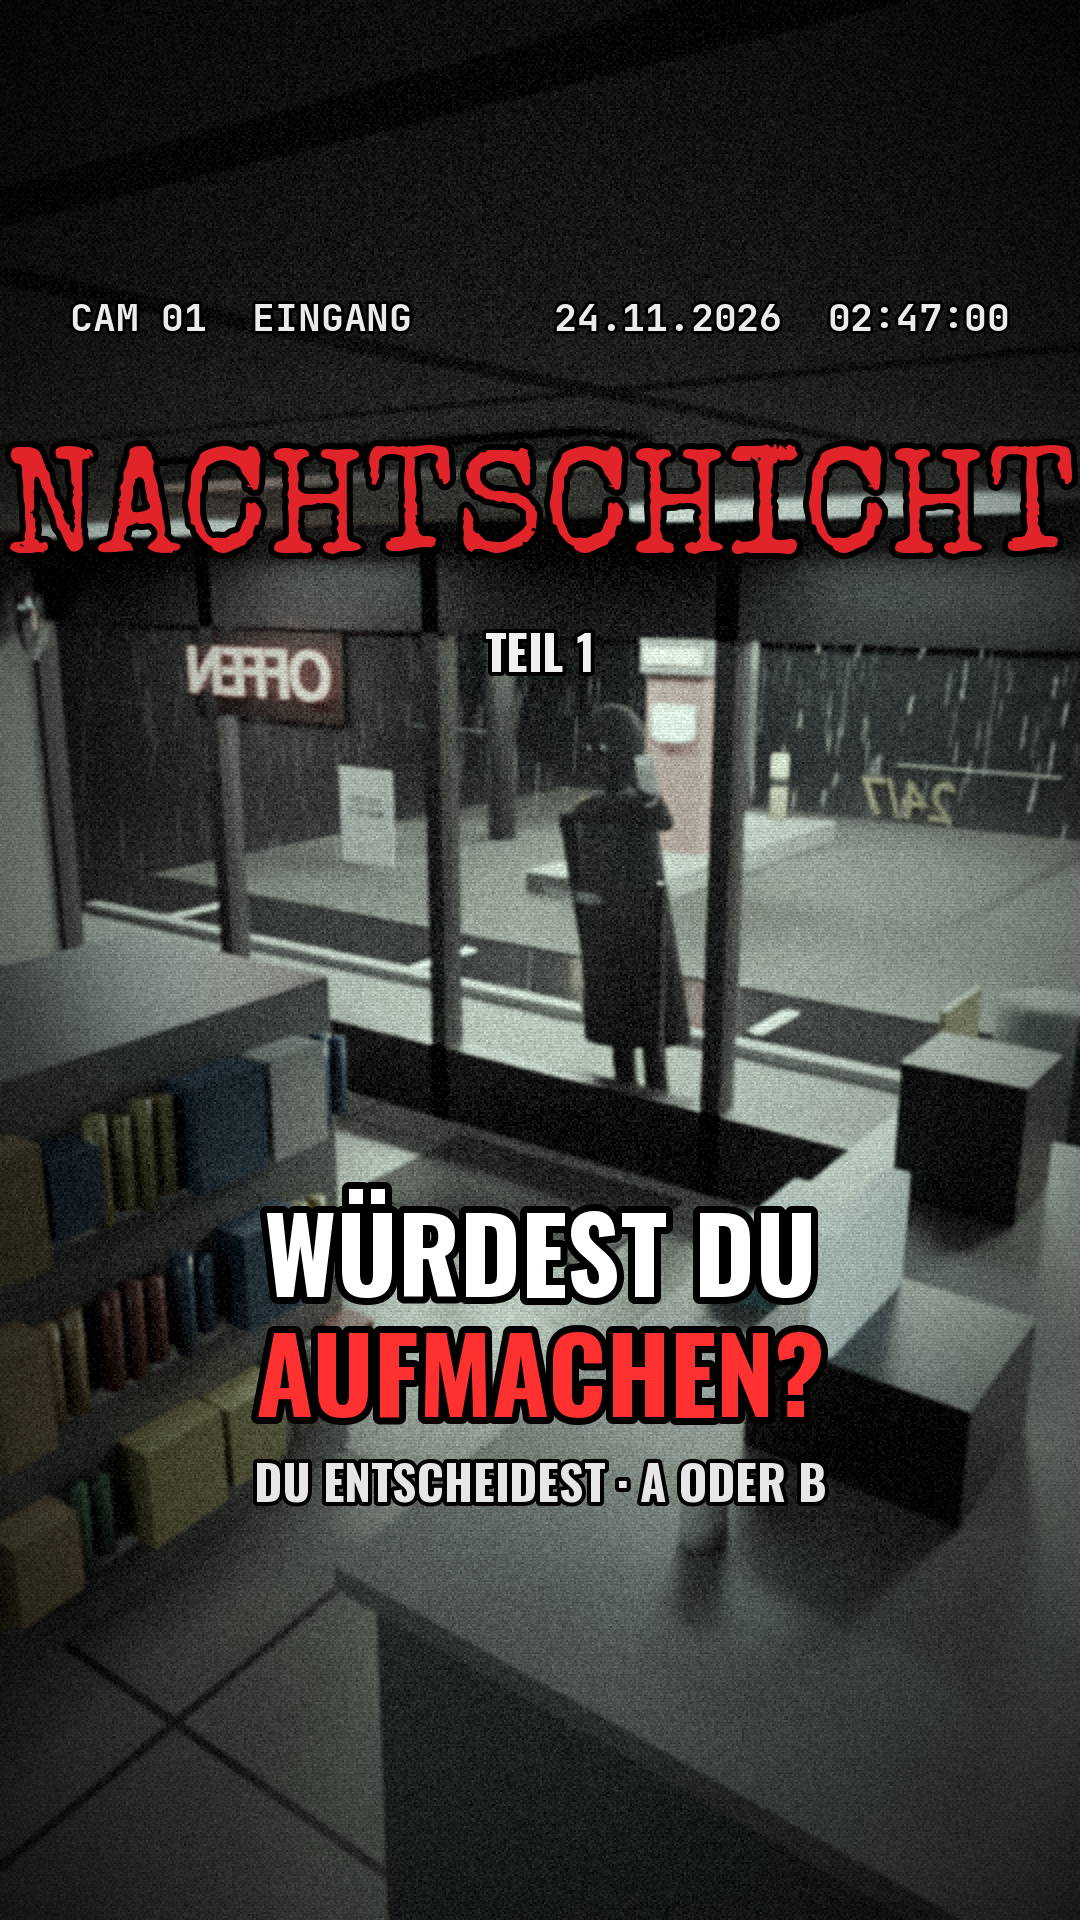
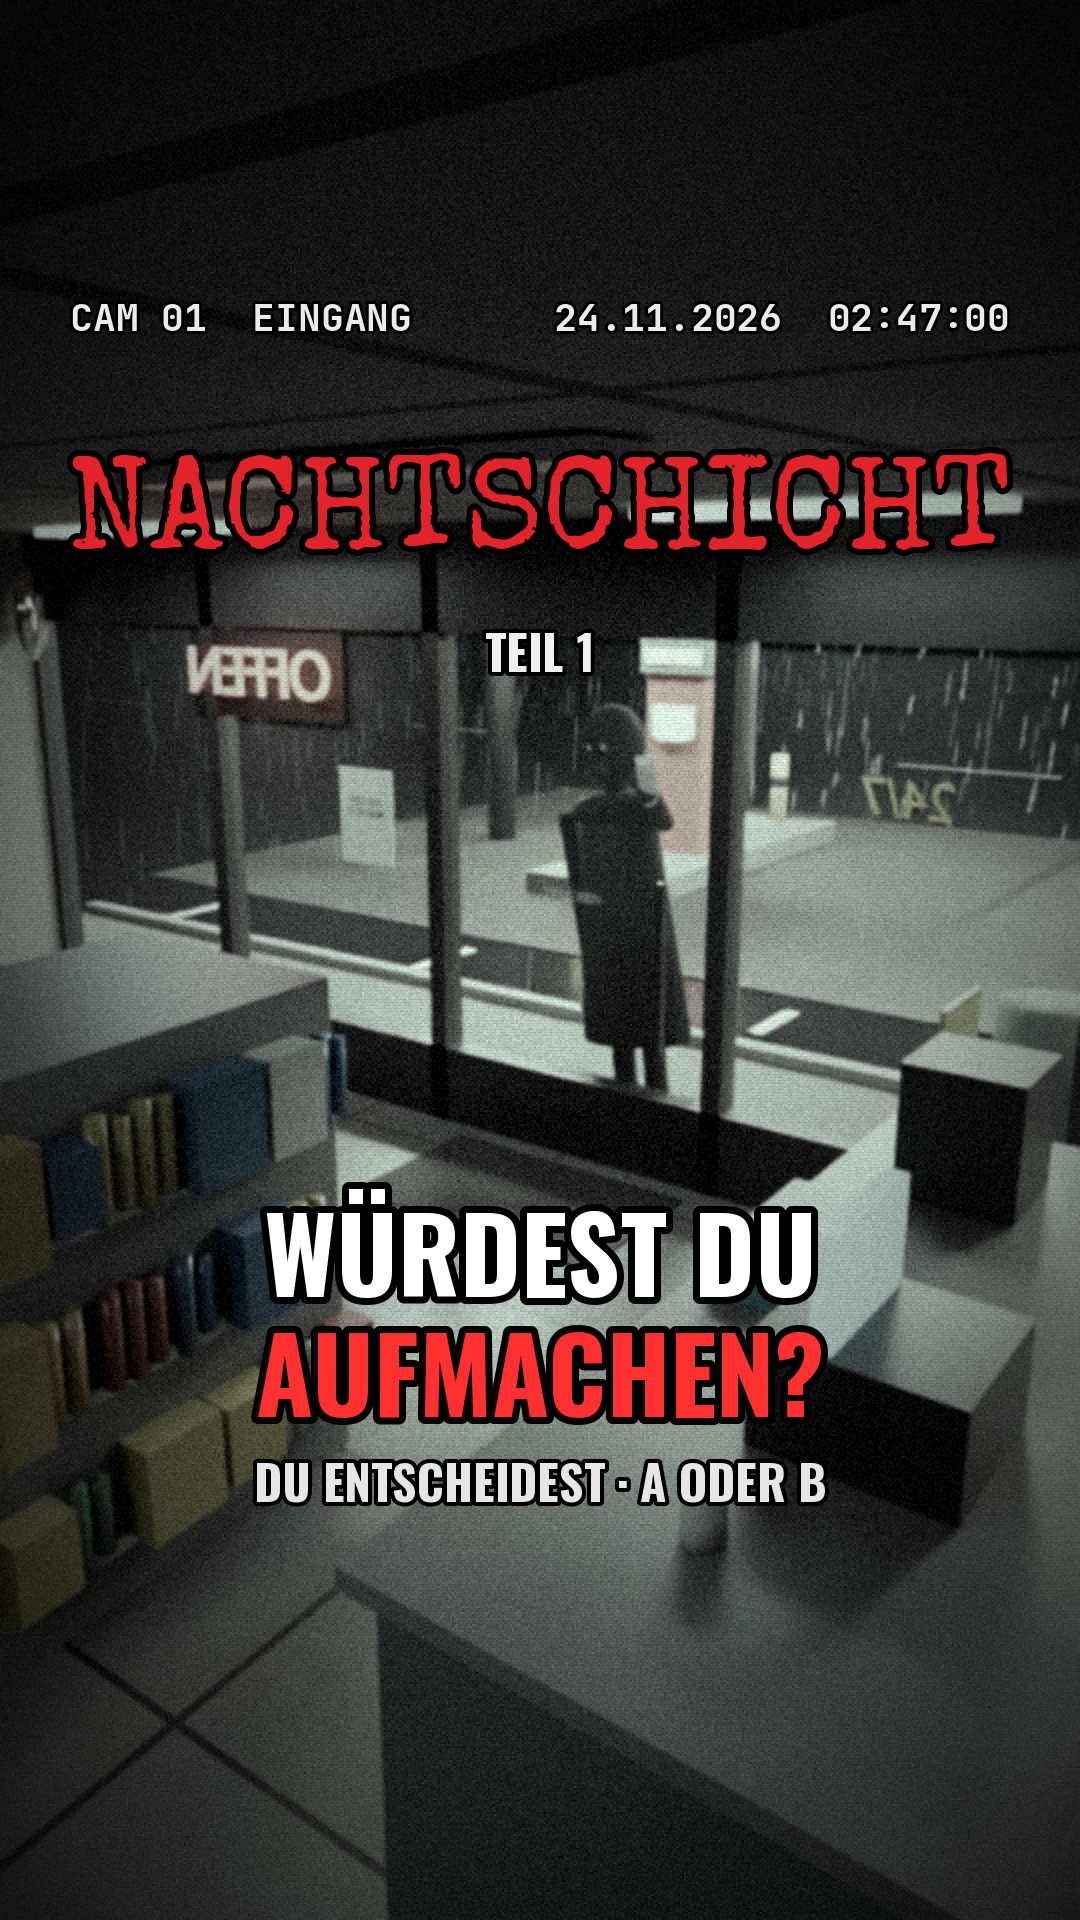
Nachtschicht Teil 1: fertig (Video 66 s, Titelbild, Texte, Notizen, Ideen Teil 2)
Claude-Session: https://claude.ai/code/session_01RcqNSfogLFpqqw5g7CSY9W

Changed region(s): [[0.0, 0.2188, 1.0, 0.3125]]

diff --git a/nachtschicht-teil1/README.md b/nachtschicht-teil1/README.md
@@ -30,3 +30,20 @@ weg · SH6 CAM 01 Dippen, Stromausfall, Sprung, Klopfen · SH7 Handy · SH8 Ents
 ## Schriften (`fonts/`)
 Special Elite (Schreibmaschine, Apache 2.0), Permanent Marker (Filzstift, Apache 2.0), Oswald (Untertitel, OFL),
 von npm (@fontsource) geladen und mit fontTools nach TTF umgewandelt.
+
+## Ergebnis (24.11.2026, 20:05)
+- `out/nachtschicht_teil1_tiktok.mp4` (66,4 s, 45 MB, 5,5 Mbit/s, −14,7 LUFS) – zum Hochladen.
+  `out/nachtschicht_teil1.mp4` ist die Fassung mit hoher Bitrate (100 MB). Beide nicht im Repository (GitHub-Grenze),
+  neu erzeugen mit `assemble.py` (ca. 6 min) bzw. ffmpeg (crf 23, maxrate 6M).
+- `out/titelbild.png`, `out/beschreibung.txt` (Caption, angepinnter Kommentar, Kanal-Vorschlag).
+- Rechenzeit Blender: r2 17 s/Bild (90 Bilder), r3 20 s/Bild (71), r1 20 s/Bild (113), Zettel ca. 3 min.
+  Mit `use_persistent_data` bleibt die Szene zwischen den Bildern im Speicher – fast 3× schneller als im Test.
+- Stimme: 21 Sätze, Ähnlichkeit 0,963–0,989, Tonhöhe 109–127 Hz (Referenz 120), je Satz lautheitsangeglichen.
+- Nachbesserungen nach dem ersten Schnitt: Stromausfall im Schnitt verstärkt (Bild ×0,33 + Rauschen, wie eine
+  nachregelnde Kamera), Entscheidungskarten kleiner und tiefer (Gestalt an der Tür bleibt sichtbar), Zettel mit
+  weniger Tiefenunschärfe (Blende 6) gerendert, Rauschen etwas schwächer, Bitrate begrenzt.
+
+## Ideen für Teil 2
+- A (aufmachen): Tür öffnet sich, Gestalt ist weg – auf dem Boden eine nasse Spur bis zum Lager; das Handy vibriert:
+  „Wer hat dir gesagt, dass du aufmachen sollst? – Chef“ (der Chef hat nie geschrieben).
+- B (nicht aufmachen): Klopfen hört auf, Kamera 2 (Lager) zeigt eine offene Hintertür … Regel 5 auf der Rückseite des Zettels.

diff --git a/KANAELE.md b/KANAELE.md
@@ -83,3 +83,10 @@ Clips bekannter deutscher Streamer als TikTok-Highlights, nur mit öffentlicher 
 `clips/streamers.json`). Ablauf: Top-Clips über die offizielle Twitch-Schnittstelle (`clips/twitch_top.py`), Dateien lädt
 der Kanalinhaber herunter, Schnitt automatisch (`clips/make_short.py`). Offene Hürden: Twitch-Entwicklerzugang + Freigabe
 api.twitch.tv, Facecam-Bereich pro Streamer ausmessen, eigenes neutrales Konto (kein Name, der offiziell wirkt).
+
+
+## Horror-Kanal „Nachtschicht – Du entscheidest“ (24.11.2026)
+Interaktive Horror-Serie im Überwachungskamera-Stil, Format wie @playmalo.com (Du-Perspektive, Abstimmung A/B per
+Kommentar), Geschichte eigen. Bilder mit Blender (Cycles CPU in der Cloud), Erzähler Thorsten-Klon, eigenes Sounddesign.
+Teil 1 fertig: `nachtschicht-teil1/` (README mit Ablauf). Vorgeschlagen: Monsterdöner-Konto umbauen
+(Name „Nachtschicht – Du entscheidest“), Posten abends 20–23 Uhr, „KI-generierte Inhalte“ an.
